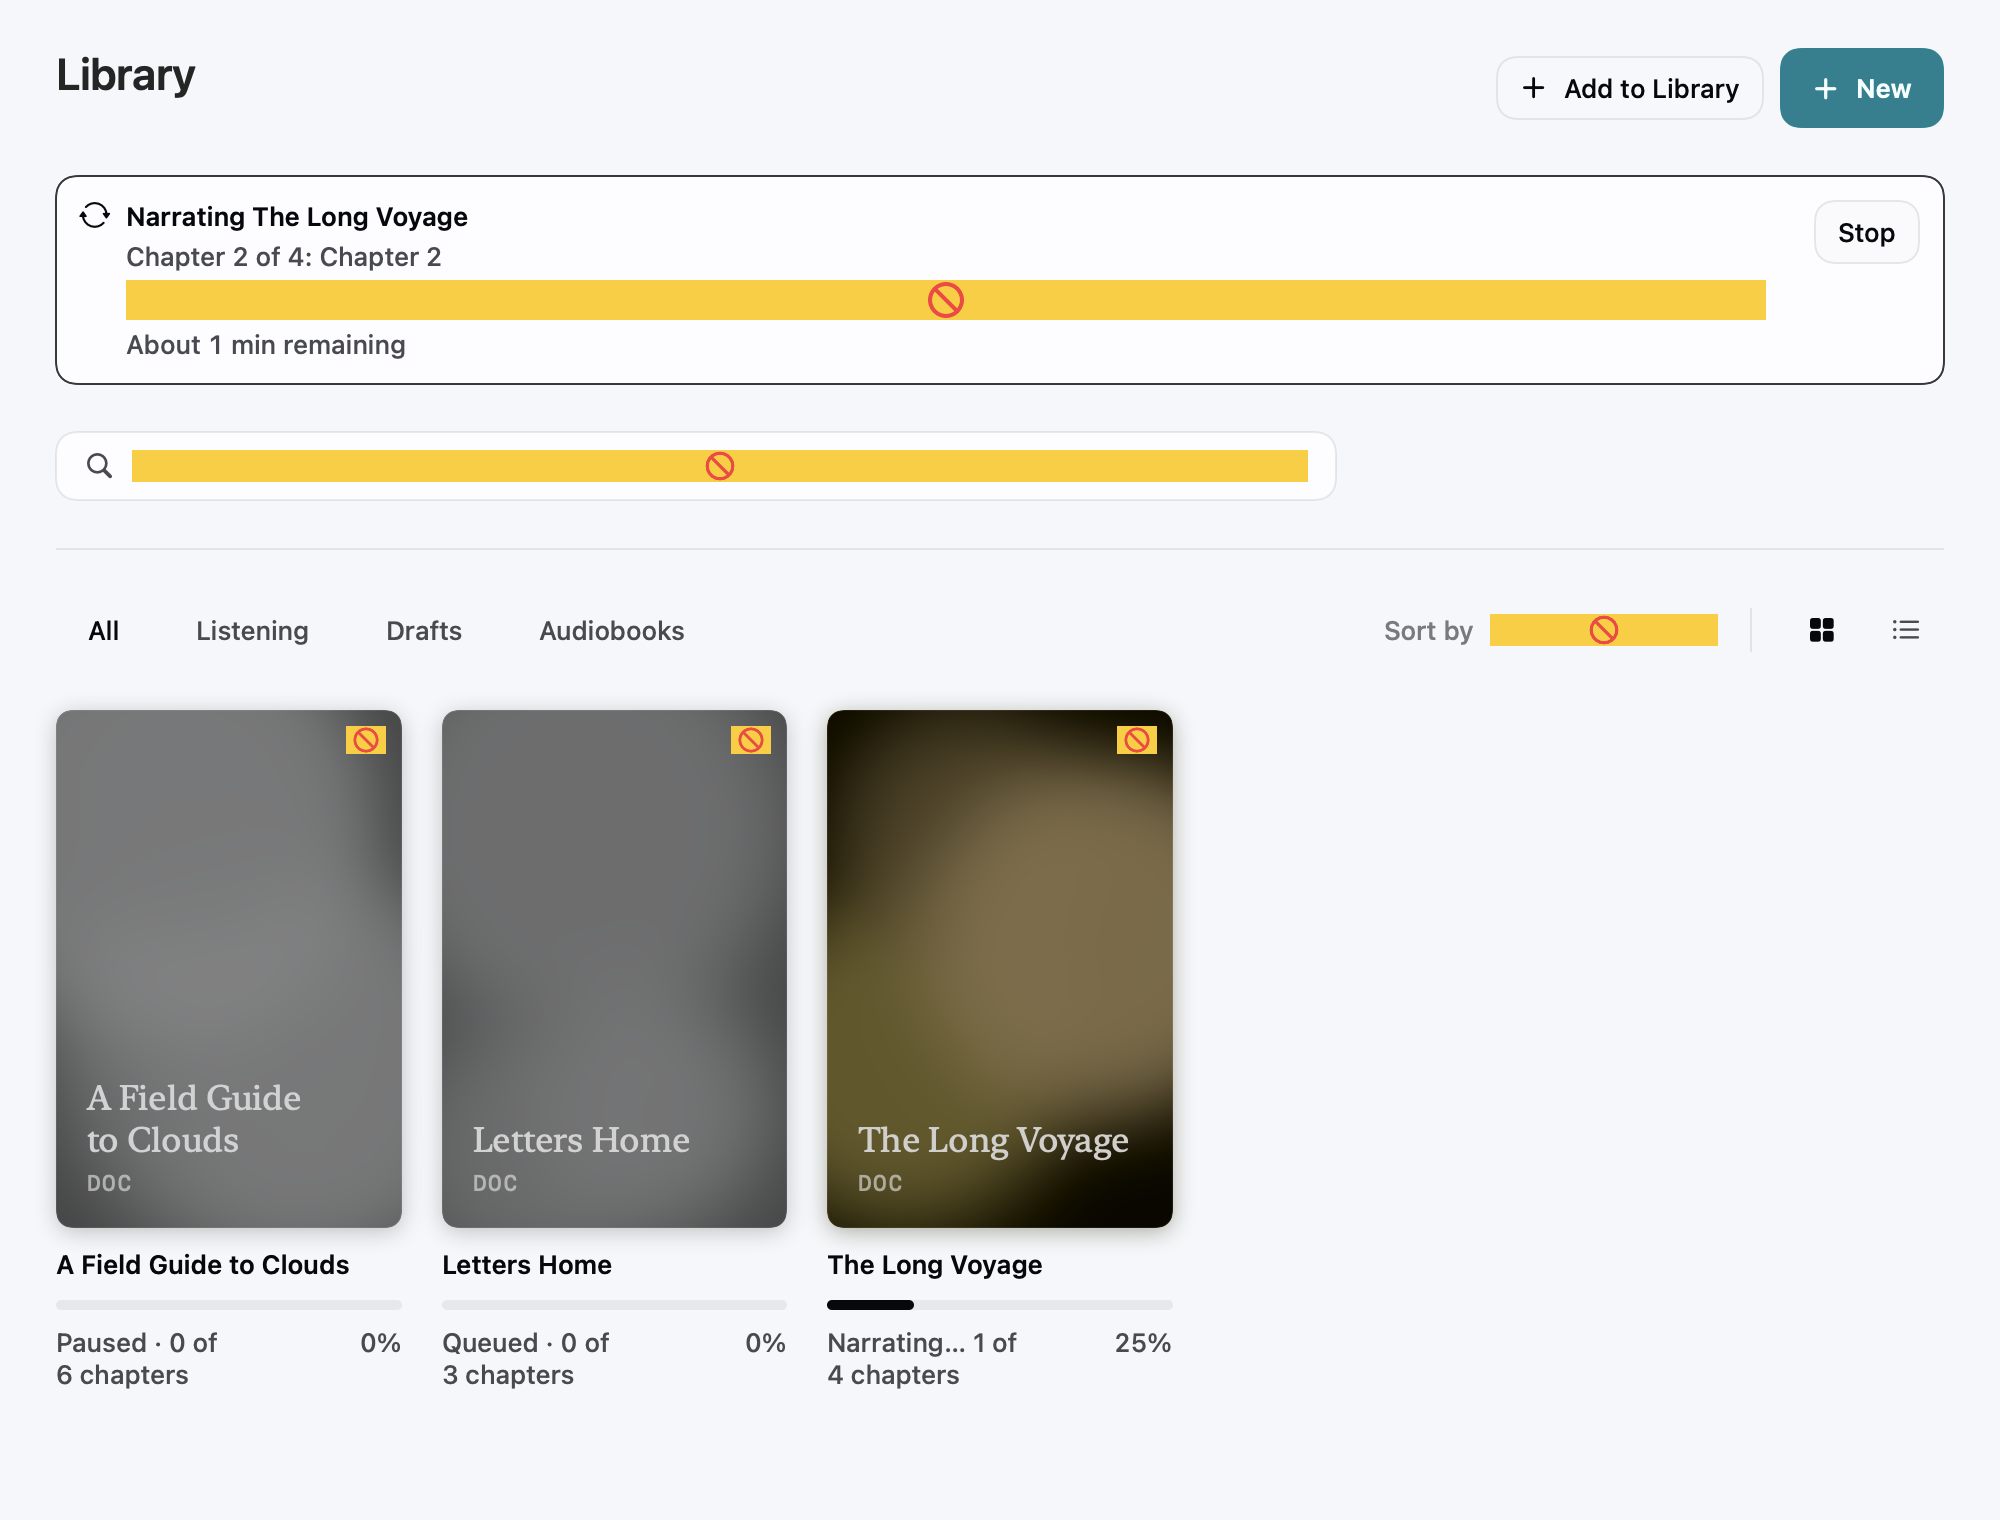
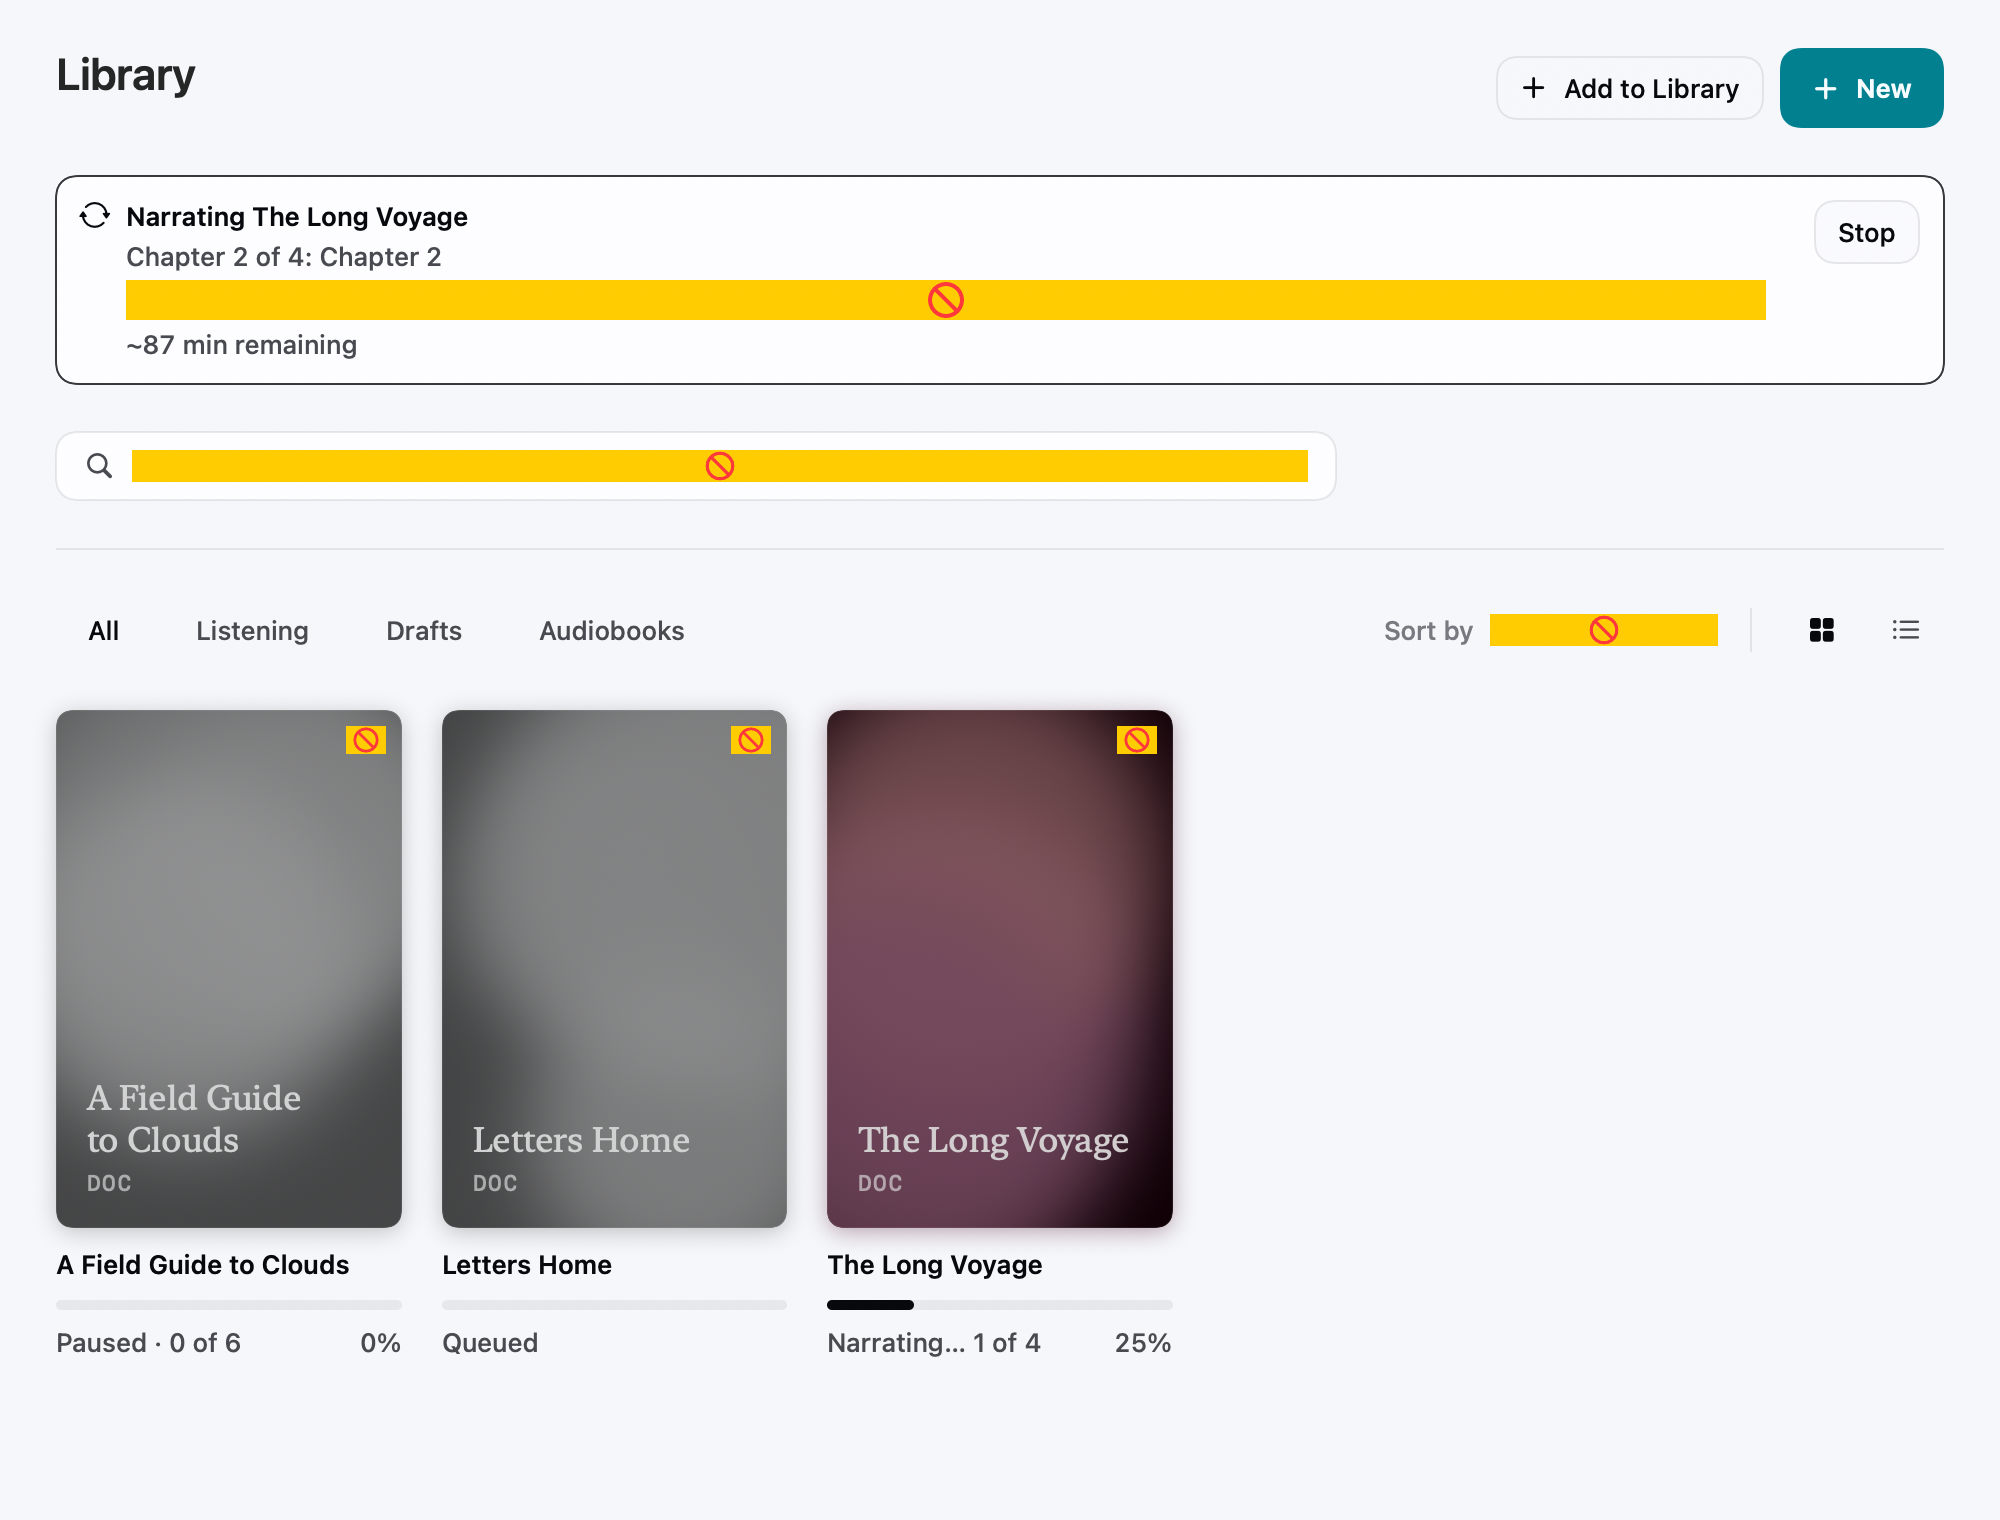
fix(mac): queue ETAs share one estimate; one-line card status; CI concurrency
- Every time-remaining readout (Library banner, book detail, queue popover)
  now comes from BookshelfModel.remainingGenerationTime, which uses the
  app's ListenEstimator and the chapters each book still has to narrate.
  The per-run wall-clock guess is gone.
- Queue thumbnails draw GeneratedCover without its title.
- Library card status stays on one line: "Queued" alone, "Paused · 0 of 6",
  "Narrating… 1 of 4", with the percent right-aligned.
- SystemNotifications.authorize is nonisolated, so the notification center
  is never sent across the main actor (flagged by the macos-14 toolchain).

diff --git a/Sources/Atten/BookshelfModel.swift b/Sources/Atten/BookshelfModel.swift
@@ -113,6 +113,8 @@ final class BookshelfModel {
     /// cancelled, or failed — so anything following it (progressive
     /// playback) can let go.
     @ObservationIgnored var onNarrationEnded: ((UUID) -> Void)?
+    /// The app's calibrated estimates, for time remaining.
+    @ObservationIgnored var listenEstimator: () -> ListenEstimator = { ListenEstimator() }
     @ObservationIgnored private var retiredAudio: Set<URL> = []
     /// Set on quit, so the narration being stopped keeps its place in the
     /// queue and nothing after it starts.
@@ -513,8 +515,6 @@ final class BookshelfModel {
                 let started = Date()
                 var generatedWords = 0
                 var generatedSeconds = 0.0
-                var completedWords = 0
-                let totalWords = pending.reduce(0) { $0 + book.chapters[$1].text.count }
                 for index in pending {
                     try Task.checkCancellation()
                     // Pausing waits for a chapter boundary, so every chapter
@@ -533,10 +533,6 @@ final class BookshelfModel {
                         completed: current.narratedCount,
                         total: current.chapters.count
                     )
-                    if completedWords > 0 {
-                        let remaining = Date().timeIntervalSince(started) * Double(totalWords - completedWords) / Double(completedWords)
-                        progress?.eta = "About \(max(1, Int(ceil(remaining / 60)))) min remaining"
-                    }
                     let chapterDirectory = directory.appendingPathComponent(
                         "chapter-\(index)-\(UUID().uuidString)", isDirectory: true
                     )
@@ -586,7 +582,6 @@ final class BookshelfModel {
                     }
                     try NarrationTimings(segments: segments).save(beside: audioURL)
                     try Task.checkCancellation()
-                    completedWords += chapter.text.count
                     generatedWords += chapter.text.split(whereSeparator: \.isWhitespace).count
                     generatedSeconds += segments.last.map { $0.start + $0.duration } ?? 0
                     // The shelf may have changed while the engine was running.
@@ -744,6 +739,22 @@ final class BookshelfModel {
         guard let book = book(id: bookID) else { return 0 }
         let words = book.chapters.filter { !$0.isNarrated }.reduce(0) { $0 + ListenEstimator.wordCount($1.text) }
         return max(0, words - (progress?.bookID == bookID ? progress?.spokenWords ?? 0 : 0))
+    }
+
+    /// How long the rest of a book should take to generate, from the text of
+    /// its chapters still to narrate. Every readout of time remaining — the
+    /// Library, the book, the queue — comes from here, so they agree.
+    func remainingGenerationTime(for bookID: UUID) -> TimeInterval {
+        guard let book = book(id: bookID) else { return 0 }
+        let estimator = listenEstimator()
+        return estimator.generationTime(
+            audioSeconds: estimator.listenDuration(words: remainingWords(for: bookID), voiceID: book.voiceID)
+        )
+    }
+
+    func remainingLabel(for bookID: UUID) -> String {
+        if let progress, progress.bookID == bookID, progress.isCombining { return progress.eta }
+        return ListenEstimator.remainingLabel(remainingGenerationTime(for: bookID))
     }
 
     private func enqueue(_ bookID: UUID, useMPS: Bool) {

diff --git a/tests/AttenCoreTests/NarrationQueueTests.swift b/tests/AttenCoreTests/NarrationQueueTests.swift
@@ -158,6 +158,31 @@ final class NarrationQueueTests: XCTestCase {
         XCTAssertTrue(stale.queue.isEmpty)
     }
 
+    func testTimeRemainingComesFromEachBooksChaptersStillToNarrate() async throws {
+        // 120 words a minute, generated at half speed: one second per word.
+        shelf.listenEstimator = { ListenEstimator(calibratedWordsPerMinute: ["af_heart": 120], realTimeFactor: 2) }
+        let long = try draft("Long", chapters: 4, extraWords: 300)
+        let short = try draft("Short", chapters: 3, extraWords: 100)
+        func words(_ chapters: ArraySlice<BookChapter>) -> Double {
+            Double(chapters.reduce(0) { $0 + ListenEstimator.wordCount($1.text) })
+        }
+
+        XCTAssertEqual(shelf.remainingGenerationTime(for: long.id), words(long.chapters[...]), accuracy: 0.001)
+        XCTAssertEqual(shelf.remainingGenerationTime(for: short.id), words(short.chapters[...]), accuracy: 0.001)
+
+        shelf.narrate(long.id, useMPS: false)
+        shelf.narrate(short.id, useMPS: false)
+        generator.release()
+        try await waitUntil { self.shelf.narratedCount(of: long) == 1 }
+
+        // The running book counts only what is left; the queued one is untouched.
+        let remaining = shelf.remainingGenerationTime(for: long.id)
+        XCTAssertEqual(remaining, words(long.chapters[1...]), accuracy: 0.001)
+        XCTAssertEqual(shelf.remainingLabel(for: long.id), ListenEstimator.remainingLabel(remaining))
+        XCTAssertEqual(shelf.remainingGenerationTime(for: short.id), words(short.chapters[...]), accuracy: 0.001)
+        XCTAssertNotEqual(shelf.remainingLabel(for: long.id), shelf.remainingLabel(for: short.id))
+    }
+
     // MARK: - Completion notification
 
     func testACompletionNotifiesOnlyWhenAttenIsNotFrontmost() async {
@@ -194,8 +219,13 @@ final class NarrationQueueTests: XCTestCase {
 
     // MARK: - Helpers
 
-    private func draft(_ title: String, chapters: Int = 1) throws -> BookRecord {
-        let parts = (1...chapters).map { DocumentChapter(title: "\(title) \($0)", text: "\(title) chapter \($0) is read aloud.") }
+    private func draft(_ title: String, chapters: Int = 1, extraWords: Int = 0) throws -> BookRecord {
+        let parts = (1...chapters).map {
+            DocumentChapter(
+                title: "\(title) \($0)",
+                text: "\(title) chapter \($0) is read aloud." + String(repeating: " word", count: extraWords)
+            )
+        }
         return try shelf.saveDraft(
             title: title,
             text: parts.map(\.text).joined(separator: "\n"),

diff --git a/Sources/Atten/CreateVisuals.swift b/Sources/Atten/CreateVisuals.swift
@@ -106,6 +106,8 @@ struct GeneratedCover: View {
     var sourceLabel: String?
     var state: AttenCore.LibraryItemState = .voiced
     var isPlaying = false
+    /// Off for a thumbnail too small to print the title legibly.
+    var showsTitle = true
 
     /// How far the cover has risen out of silence: 0 while silent, 1 once
     /// voiced, and whatever `.generating` reports in between.
@@ -131,19 +133,21 @@ struct GeneratedCover: View {
                         .opacity(0.75)
                         .blur(radius: size.width * 0.12)
                 }
-                VStack(alignment: .leading, spacing: size.width * 0.02) {
-                    Text(title)
-                        .font(.system(size: max(12, size.width * 0.1), weight: .regular, design: .serif))
-                        .foregroundStyle(AttenColor.cover(OKLCHColor(lightness: 0.97, chroma: 0.01, hue: seed.hue)))
-                        .lineLimit(4)
-                    if let sourceLabel {
-                        Text(sourceLabel.uppercased())
-                            .attenText(.label)
-                            .foregroundStyle(AttenColor.cover(OKLCHColor(lightness: 0.97, chroma: 0.01, hue: seed.hue)).opacity(0.72))
-                            .lineLimit(1)
+                if showsTitle {
+                    VStack(alignment: .leading, spacing: size.width * 0.02) {
+                        Text(title)
+                            .font(.system(size: max(12, size.width * 0.1), weight: .regular, design: .serif))
+                            .foregroundStyle(AttenColor.cover(OKLCHColor(lightness: 0.97, chroma: 0.01, hue: seed.hue)))
+                            .lineLimit(4)
+                        if let sourceLabel {
+                            Text(sourceLabel.uppercased())
+                                .attenText(.label)
+                                .foregroundStyle(AttenColor.cover(OKLCHColor(lightness: 0.97, chroma: 0.01, hue: seed.hue)).opacity(0.72))
+                                .lineLimit(1)
+                        }
                     }
+                    .padding(size.width * 0.09)
                 }
-                .padding(size.width * 0.09)
             }
         }
         .aspectRatio(AttenMetrics.coverAspectRatio, contentMode: .fit)

diff --git a/Sources/Atten/LibraryView.swift b/Sources/Atten/LibraryView.swift
@@ -501,7 +501,7 @@ struct LibraryStatusArea: View {
                     detail: progress.isCombining ? "Combining chapters into one audio file" : "Chapter \(min(progress.completed + 1, progress.total)) of \(progress.total): \(progress.chapterTitle)",
                     phase: .active,
                     progress: progress.total > 0 ? progress.fraction : nil,
-                    progressLabel: progress.eta,
+                    progressLabel: shelf.remainingLabel(for: progress.bookID),
                     actionTitle: "Stop",
                     action: shelf.cancelNarration
                 )
@@ -725,9 +725,14 @@ struct NarrationMeter: View {
             .frame(height: 5)
             HStack(alignment: .firstTextBaseline, spacing: 6) {
                 Text(label)
+                    .lineLimit(isRunning || queued != nil ? 1 : nil)
                 Spacer(minLength: 0)
-                Text("\(Int(fraction * 100))%")
-                    .monospacedDigit()
+                // "Queued" alone has nothing to count yet.
+                if label != queued {
+                    Text("\(Int(fraction * 100))%")
+                        .monospacedDigit()
+                        .fixedSize()
+                }
             }
             .font(AttenTypography.callout)
             .foregroundStyle(AttenColor.textSecondary)
@@ -738,8 +743,8 @@ struct NarrationMeter: View {
     }
 
     private var label: String {
-        if isRunning { return "Narrating… \(narrated) of \(total) chapters" }
-        if let queued { return "\(queued) · \(narrated) of \(total) chapters" }
+        if isRunning { return "Narrating… \(narrated) of \(total)" }
+        if let queued { return queued == "Queued" && narrated == 0 ? queued : "\(queued) · \(narrated) of \(total)" }
         if total == 0 { return "No chapters" }
         if narrated == total { return "Audiobook · \(total) chapters" }
         return "\(narrated) of \(total) chapters narrated"

diff --git a/Sources/Atten/NarrationQueueView.swift b/Sources/Atten/NarrationQueueView.swift
@@ -95,8 +95,7 @@ struct NarrationQueuePanel: View {
             NarrationQueueRow(
                 shelf: shelf,
                 book: book,
-                isPaused: entry.isPaused,
-                estimator: model.settings.listenEstimator
+                isPaused: entry.isPaused
             )
             .frame(height: Self.rowHeight)
         }
@@ -107,7 +106,6 @@ private struct NarrationQueueRow: View {
     let shelf: BookshelfModel
     let book: BookRecord
     let isPaused: Bool
-    let estimator: ListenEstimator
 
     private var progress: BookshelfModel.NarrationProgress? {
         shelf.narratingBookID == book.id ? shelf.progress : nil
@@ -116,11 +114,7 @@ private struct NarrationQueueRow: View {
     private var completed: Int { progress?.completed ?? shelf.narratedCount(of: book) }
 
     private var eta: String {
-        if progress?.isCombining == true { return "Finishing" }
-        let seconds = estimator.generationTime(
-            audioSeconds: estimator.listenDuration(words: shelf.remainingWords(for: book.id), voiceID: book.voiceID)
-        )
-        return ListenEstimator.remainingLabel(seconds)
+        progress?.isCombining == true ? "Finishing" : shelf.remainingLabel(for: book.id)
     }
 
     var body: some View {
@@ -182,7 +176,8 @@ private struct NarrationQueueRow: View {
                 GeneratedCover(
                     title: book.title,
                     contentHash: AttenCore.LibraryItem.book(book).coverSeedKey,
-                    state: AttenCore.LibraryItem.book(book).state
+                    state: AttenCore.LibraryItem.book(book).state,
+                    showsTitle: false
                 )
             }
         }

diff --git a/Sources/Atten/NarrationNotifier.swift b/Sources/Atten/NarrationNotifier.swift
@@ -33,14 +33,16 @@ final class SystemNotifications: NSObject, UNUserNotificationCenterDelegate {
     /// Opens the book a clicked notification was about.
     var open: (UUID) -> Void = { _ in }
 
-    private var center: UNUserNotificationCenter? {
+    private nonisolated var center: UNUserNotificationCenter? {
         guard Bundle.main.bundleURL.pathExtension == "app" else { return nil }
         let center = UNUserNotificationCenter.current()
         center.delegate = self
         return center
     }
 
-    func authorize() async -> Bool {
+    /// Nonisolated, so the center is fetched and asked in one context and
+    /// never sent across the main actor's boundary.
+    nonisolated func authorize() async -> Bool {
         guard let center else { return false }
         return (try? await center.requestAuthorization(options: [.alert, .sound])) ?? false
     }

diff --git a/tests/AttenCoreTests/NarrationQueueRenderTests.swift b/tests/AttenCoreTests/NarrationQueueRenderTests.swift
@@ -75,7 +75,7 @@ final class NarrationQueueRenderTests: XCTestCase {
 
     private func draft(_ title: String, chapters: Int, in model: AppModel) throws -> BookRecord {
         let parts = (1...chapters).map {
-            DocumentChapter(title: "Chapter \($0)", text: "\(title), chapter \($0). " + String(repeating: "Words to be read aloud. ", count: 400))
+            DocumentChapter(title: "Chapter \($0)", text: "\(title), chapter \($0). " + String(repeating: "Words to be read aloud. ", count: 60 * title.count))
         }
         return try model.bookshelf.saveDraft(
             title: title,

diff --git a/Sources/Atten/BookDetailView.swift b/Sources/Atten/BookDetailView.swift
@@ -243,7 +243,7 @@ struct BookDetailView: View {
                     detail: progress.isCombining ? "Combining chapters into one audio file" : "Chapter \(min(progress.completed + 1, progress.total)) of \(progress.total): \(progress.chapterTitle)",
                     phase: .active,
                     progress: progress.total > 0 ? progress.fraction : nil,
-                    progressLabel: progress.eta
+                    progressLabel: shelf.remainingLabel(for: book.id)
                 )
             } else {
                 if let failure = book.narrationFailure {

diff --git a/Sources/Atten/AppModel.swift b/Sources/Atten/AppModel.swift
@@ -115,6 +115,7 @@ final class AppModel {
             self?.installedModelsChanged()
         }
         self.bookshelf.isAudioInUse = { [weak self] url in self?.activeAudioURL == url }
+        self.bookshelf.listenEstimator = { [weak self] in self?.settings.listenEstimator ?? ListenEstimator() }
         self.bookshelf.missingModelID = { [weak self] voiceID in
             self?.requiredModelID(for: voiceID)
         }
